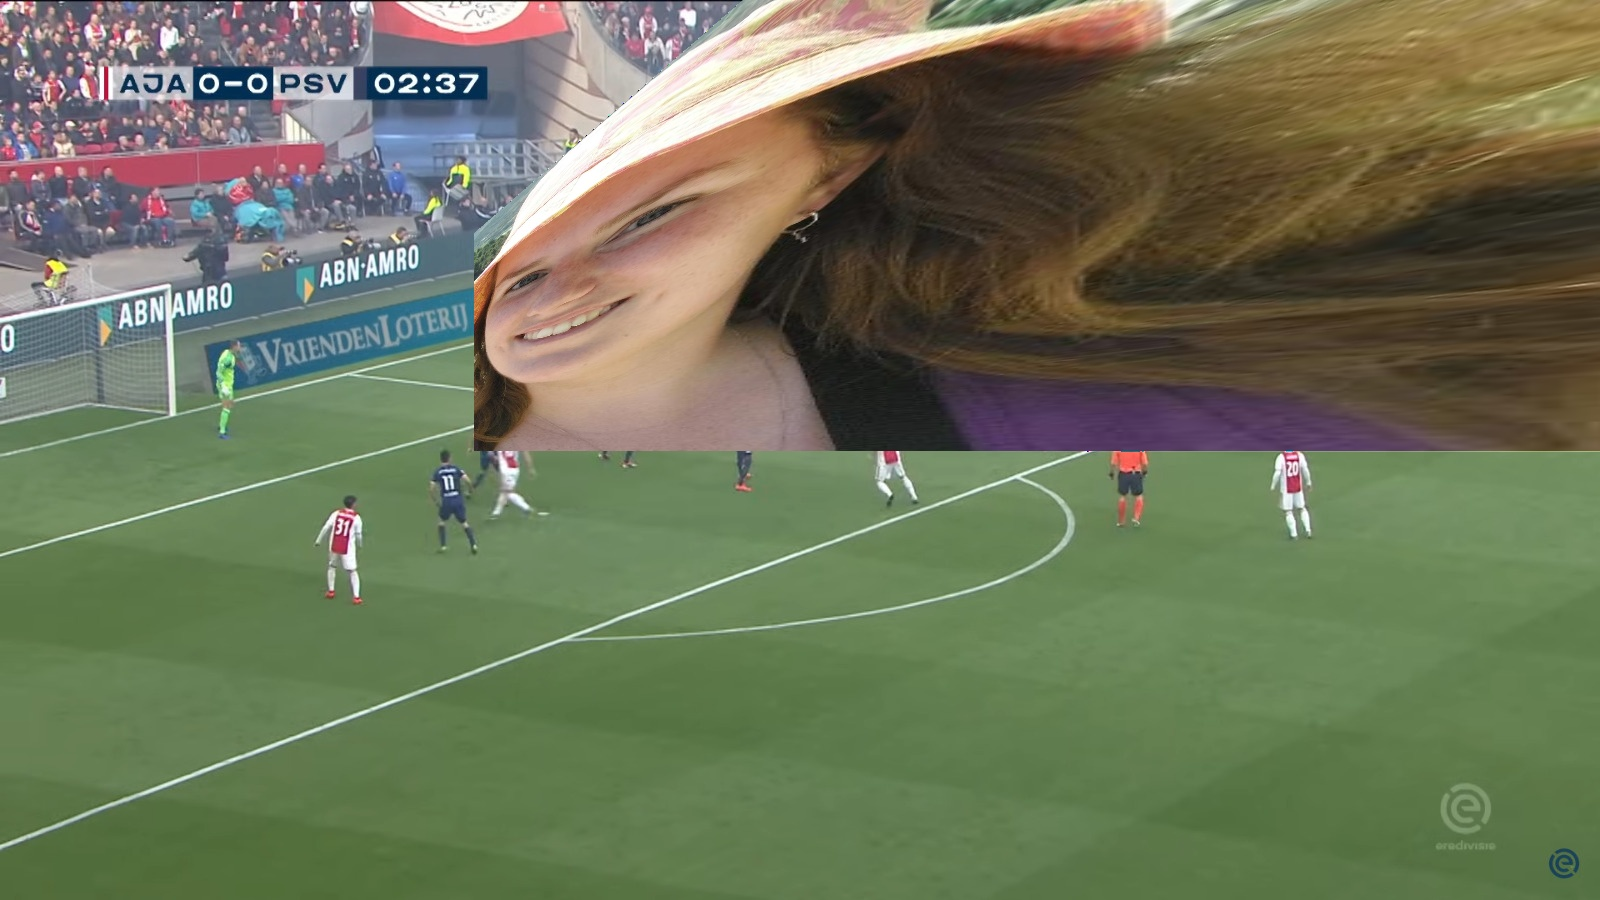
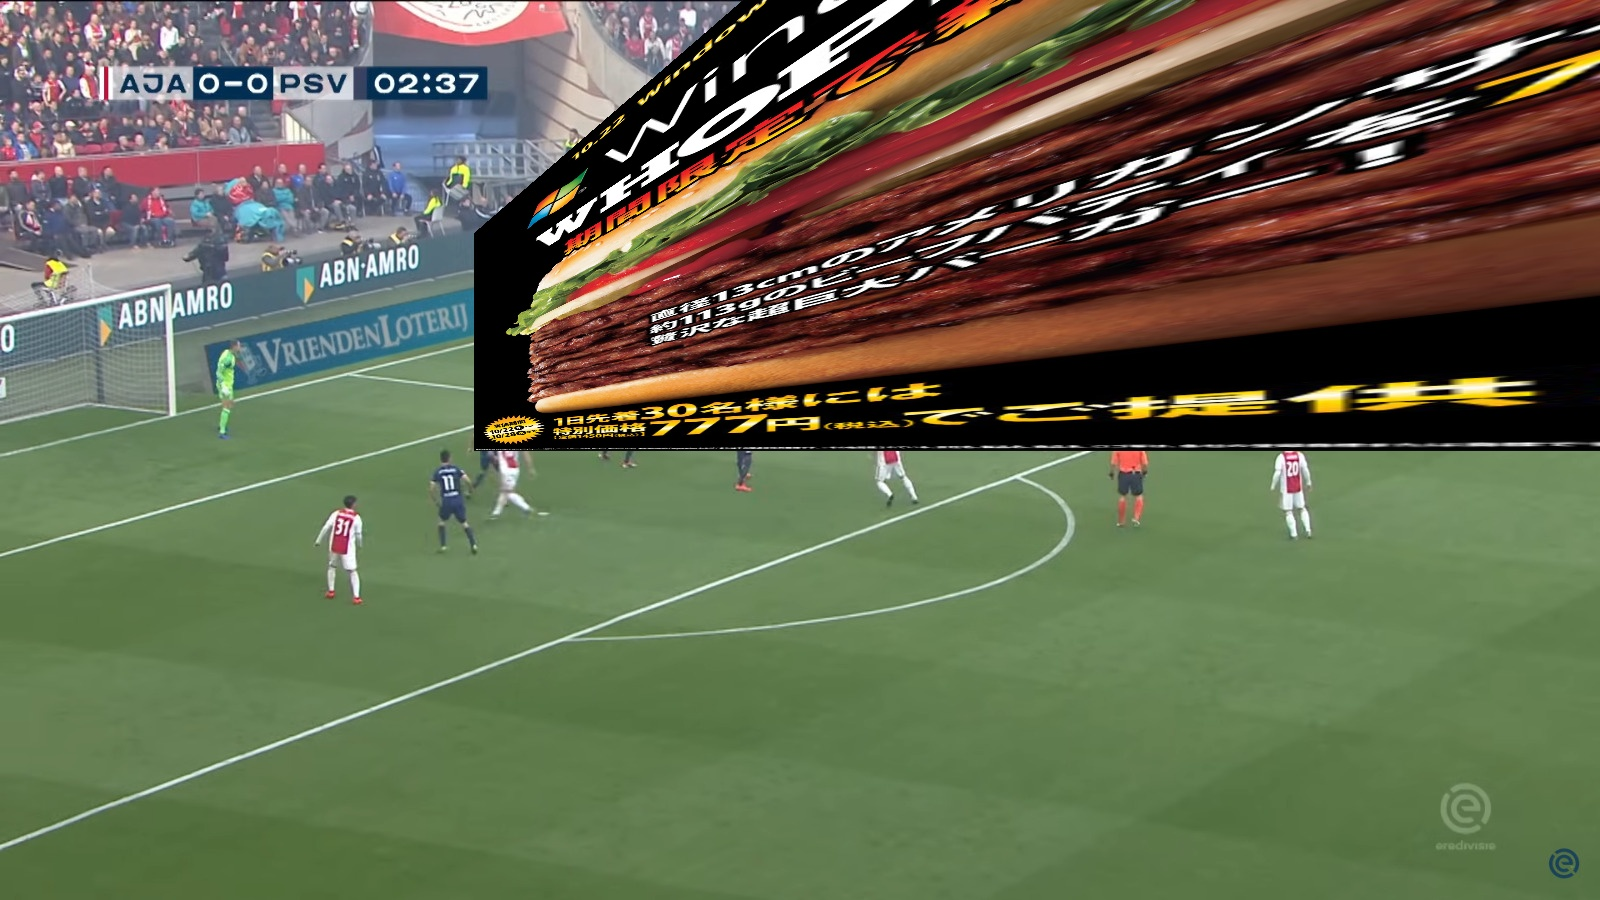
recognize intersections of lines

diff --git a/banner.py b/banner.py
@@ -1,20 +1,14 @@
 import cv2
 import numpy as np
 
-def project_angled_banner_with_camera(image, banner, K, field_corners_3d, banner_rect, angle_degrees=60):
+def project_angled_banner_with_camera(image, banner, K, banner_rect, angle_degrees=60):
     h, w = image.shape[:2]
 
-    # Define rotation vector (assuming camera is looking straight at the field)
+    # Rotation and translation vector
     rvec = np.array([0.0, 0.0, 0.0])
-
-    # Define translation vector (adjust these values based on your setup)
     tvec = np.array([0.0, 0.0, 10.0])  # Assuming camera is 10 units away from the field center
 
-    # Project 3D field corners to 2D image points
-    field_corners_2d, _ = cv2.projectPoints(field_corners_3d, rvec, tvec, K, None)
-    field_corners_2d = field_corners_2d.reshape(-1, 2)
-
-    # Define banner points in 3D space
+    # Banner in 3d
     x, y, width, height = banner_rect
     banner_pts_3d = np.array([
         [x, y, 0],
@@ -39,7 +33,7 @@ def project_angled_banner_with_camera(image, banner, K, field_corners_3d, banner
     result = cv2.warpPerspective(banner, M_banner, (w, h))
     mask = cv2.warpPerspective(np.ones_like(banner), M_banner, (w, h))
 
-    # Create shadow (simplified)
+    # Attempt at shadow
     shadow_offset = np.array([0.1, 0.1, 0])  # Offset in 3D space
     shadow_pts_3d = banner_pts_3d_rotated + shadow_offset
     shadow_pts_2d, _ = cv2.projectPoints(shadow_pts_3d, rvec, tvec, K, None)
@@ -53,31 +47,29 @@ def project_angled_banner_with_camera(image, banner, K, field_corners_3d, banner
 
     return blended.astype(np.uint8)
 
-# Example usage
 image = cv2.imread('media/corner-still.jpeg')
-banner = cv2.imread('media/Pauline.jpg')
+banner = cv2.imread('media/windows7_whopper.jpg')
 
-# Define intrinsic camera matrix (example values, adjust as needed)
+# Random intrinsinc parameters
 K = np.array([
     [1000, 0, image.shape[1]/2],
     [0, 1000, image.shape[0]/2],
     [0, 0, 1]
 ])
 
-# Define the corners of the field in 3D space (assuming field is 100x50 meters)
+# Where is the field?
 field_corners_3d = np.array([
-    [-50, -25, 0],  # Top-left corner of the field
-    [50, -25, 0],   # Top-right corner of the field
-    [50, 25, 0],    # Bottom-right corner of the field
-    [-50, 25, 0]    # Bottom-left corner of the field
+    [-50, -25, 0],
+    [50, -25, 0],
+    [50, 25, 0],
+    [-50, 25, 0]
 ], dtype=np.float32)
 
-# Define the banner position and size in the 3D field space
-# Centered banner: x = 0 (center of field), y slightly above center
-banner_width = 30  # meters
-banner_height = 5  # meters
-banner_rect = (-banner_width/2, -5, banner_width, banner_height)  # x, y, width, height in meters
+# Hardcoded banner positions for now
+banner_width = 30
+banner_height = 5
+banner_rect = (-banner_width/2, -5, banner_width, banner_height)
 
-result = project_angled_banner_with_camera(image, banner, K, field_corners_3d, banner_rect, angle_degrees=60)
+result = project_angled_banner_with_camera(image, banner, K, banner_rect, angle_degrees=60)
 
 cv2.imwrite('result.jpg', result)

diff --git a/helper.py b/helper.py
@@ -108,3 +108,77 @@ class Helper:
         if (len(buildList) > 0):
             retList.append(buildList.copy())
         return retList
+
+    def get_line_intersection(self, line1, line2):
+        """
+        Find intersection point of two lines using their endpoints.
+        Returns None if lines are parallel or don't intersect.
+        """
+        x1, y1 = -line1
+        x2, y2 = +line1
+        x3, y3 = -line2
+        x4, y4 = +line2
+
+        # Calculate denominator
+        denom = (x1 - x2) * (y3 - y4) - (y1 - y2) * (x3 - x4)
+
+        if abs(denom) < 1e-8:  # Lines are parallel
+            return None
+
+        # Calculate intersection point
+        t = ((x1 - x3) * (y3 - y4) - (y1 - y3) * (x3 - x4)) / denom
+
+        # Check if intersection occurs within line segments
+        if not (0 <= t <= 1):
+            return None
+
+        # Calculate intersection point
+        x = x1 + t * (x2 - x1)
+        y = y1 + t * (y2 - y1)
+
+        return (int(x), int(y))
+
+    def find_field_intersections(self, linesGrouped, mask, min_distance=20):
+        """
+        Find all valid intersection points between line groups within the field mask.
+        """
+        intersections = []
+
+        # Compare each group with every other group
+        for i in range(len(linesGrouped)):
+            for j in range(i + 1, len(linesGrouped)):
+                # Compare each line in first group with each line in second group
+                for line1 in linesGrouped[i]:
+                    for line2 in linesGrouped[j]:
+                        intersection = self.get_line_intersection(line1, line2)
+
+                        if intersection is None:
+                            continue
+
+                        x, y = intersection
+
+                        # Check if point is within image bounds and field mask
+                        if (0 <= y < mask.shape[0] and 0 <= x < mask.shape[1] and
+                                mask[y, x] > 0):
+
+                            # Check if this point is far enough from existing points
+                            is_unique = True
+                            for existing_x, existing_y in intersections:
+                                dist = np.sqrt((x - existing_x) ** 2 + (y - existing_y) ** 2)
+                                if dist < min_distance:
+                                    is_unique = False
+                                    break
+
+                            if is_unique:
+                                intersections.append((x, y))
+
+        return intersections
+
+    def draw_intersections(self, img, intersections, radius=5, color=(0, 255, 0), thickness=-1):
+        """
+        Draw the intersection points on the image
+        """
+        result = img.copy()
+        for x, y in intersections:
+            cv2.circle(result, (x, y), radius, color, thickness)
+        return result

diff --git a/hough.py b/hough.py
@@ -6,7 +6,7 @@ from helper import Line
 Help = Helper()
 
 # Read image 
-img = cv2.imread('frame.png', cv2.IMREAD_COLOR) # road.png is the filename
+img = cv2.imread('media/corner-still.jpeg', cv2.IMREAD_COLOR) # road.png is the filename
 
 satAdjusted = Help.satAdjHSV(img, 5)
 # plt.hist(satAdjusted.ravel(),256,[0,256]); plt.show()
@@ -27,6 +27,9 @@ for index, group in enumerate(linesGrouped):
         color = (0, 0, 255)
     for line in group:
         cv2.line(img, -line, +line, color, 3)
+
+intersections = Help.find_field_intersections(linesGrouped, mask)
+img = Help.draw_intersections(img, intersections)
 # Show result
 # cv2.imshow("blank", cv2.cvtColor(satAdjusted, cv2.COLOR_HSV2BGR))
 cv2.imshow("blank", img)
